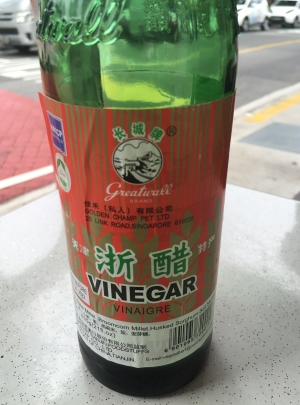
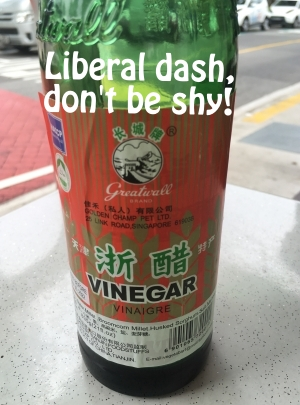
song kee

Changed region(s): [[0.12, 0.1185, 0.78, 0.2963]]

diff --git a/_drafts/song-kee-fishball-noodles.md b/_drafts/song-kee-fishball-noodles.md
@@ -11,12 +11,28 @@ author: steve
 
 Song kee's fishball noodles caused my first **wow** moment in Singapore. After that first bite into a fishball, I had to stop masticating, pause, and reflect on how insanely good this tasted.  
 
-Each bowl comes with a combination of fishballs, tofu stuffed with fish paste, fish dumplings and fish rolls — how many is dependent on the price of the bowl.
+Let me explain.  
 
-![Different fishballs](/assets/images/song-kee-fishball-3.jpg "Different song kee ingredients")
+In Australia, fishballs are commonly found in asian supermarkets, but I had never encountered them in a restaurant setting. When I had encountered fishballs, e.g. at hotpot dinner parties, I was not particularly enamoured with either the taste or the texture — I readily admit to an aversion to processed foods (don't get me started on spam fries). However, this indifference to fishballs was instantly changed upon tasting my first handmade one. The texture was springy, but surpsingly soft once the fishball was pierced with a bite. The proteins could be made out as you chewed, bursting with flavour at each bite. These fishballs were a million miles away from their smooth and spongy factory cousins I had first encountered in a hotpot. The **fishy** taste was even minimised in these handmade fishballs — I would be interested to know if this is due to the type of fish used, but the species name is not made available.
 
-While fishballs are common in asian supermarkets in Australia, I had never encountered them in a restaurant setting. I can't say I fell in love with the texture and often taste of fishballs. I've never been a fan of processed foodstuffs. However, my indifference to fishballs changed once I had my first handmade fishball. Now here was a texture that was unbelievably nice. Instead of being smooth and spongy, handmade fishballs have this spring and bite to them and they do not tear neatly in the mouth as you chew the ball. Flavour oozes out during each bite and rarely do you seem to get the strong fish taste that can occur with their factory cousins.
+![fishballs](/assets/images/song-kee-fishball-3.jpg "Different song kee ingredients")
 
-Although for me, what really separates the quality of fishball noodle sellers is their chilli. For dry fishball noodles, the mee needs to be tossed in a combination of the pork fat and a chilli. The chilli needs to coat the noodles and have a depth that can cut through the taste of the fish, but at the same time not over power it the entire dish.
+Each bowl comes with a combination of fishballs, tofu stuffed with fish paste, fish dumplings and fish rolls — how many is dependent on the price of the bowl. The fish dumplings seem to be the highlight of the bowl here, I have noticed several customers asking for extra ones when ordering. You can choose from a soup or dry noodle, a variety of noodles, and three sizes of dishes. So far I have only tried the dry noodles, with either mee pok (flat egg noodle) or mee kia (skinny egg noodle). The noodles are not going to set records, but they were never supposed to be the star of the dish.  
 
-Completely different from anything I had ever tasted in Australia. The noodles—usually I choose mee pok dry—are cooked al dente and then tossed in rendered pork fat. Sensational.
+![song kee menu](/assets/images/song-kee-fishball-2.jpg "Song kee menu")
+
+It can be hard to differentiate between fishball noodles sellers, therefore the quality of the chilli sauce becomes critical in determine your favourite bowls. The noodles must be tossed in a good amount of chilli, deep fried pork fat, and some lard. A good bowl of fishball noodles is not necessarily a health concious choice, but you cannot skimp on flavour. At song kee, the chilli has a decent kick, and the pork fat serving is generous. Those random crunches when eating the noodles, the explosion of salty porky goodness, are what bring a smile to the face. I suggest you add a good dash of the black vinegar (they even offer balsamic) to the bowl for an increased mouth watering experience.
+
+![black vinegar](/assets/images/song-kee-fishball-4.jpg "Required black vinegar")
+
+If you have not yet tried Song kee fishball noodle, then drop everything and do it today. So far from what I have tasted in the east, they are the kings. The only negative is they do not serve beer.  
+
+**Price:** $4.00 (I suggest ordering the $6 for more variety of ingredients)  
+
+**Coffee shop:** Song kee fishball noodle  
+**Address:** 128 Tembeling Rd, Joo Chiat
+**Hours:** 11:30am - 9:30pm (closed wednesdays)  
+
+***  
+
+![song kee fishball noodle](/assets/images/song-kee-fishball-5.jpg "Song kee fishball noodle")
